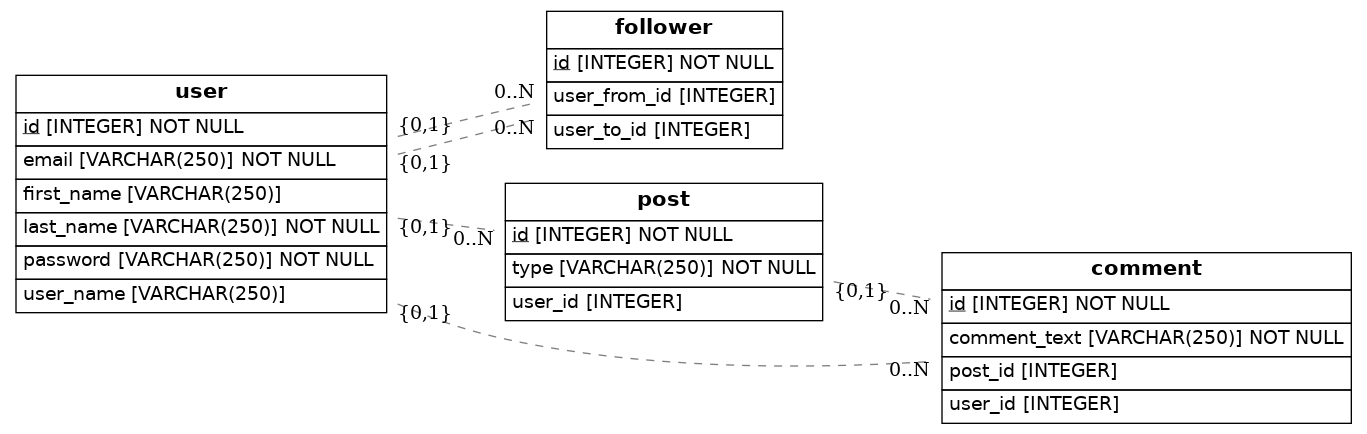
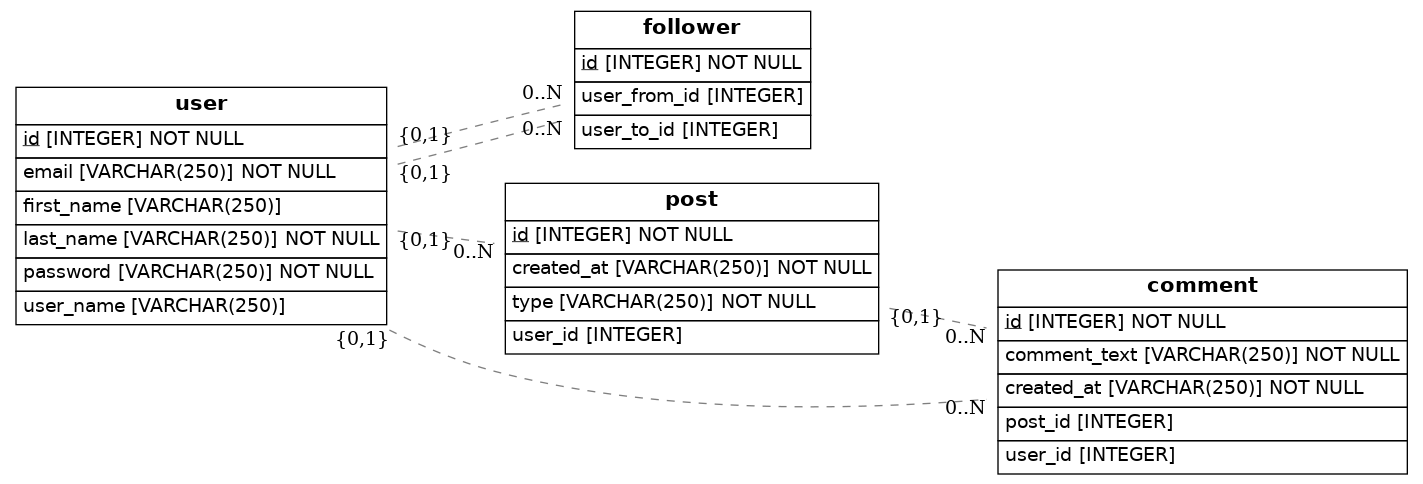
Correcion hecha

diff --git a/src/models.py b/src/models.py
@@ -29,6 +29,7 @@ class Post(Base):
     user_id = Column(Integer, ForeignKey('user.id'))  
     user = relationship(User)
     type = Column(String(250), nullable=False) 
+    created_at = Column(String(250), nullable=False) 
 
 class Comment(Base):  
     __tablename__ = 'comment'
@@ -38,6 +39,8 @@ class Comment(Base):
     post_id = Column(Integer, ForeignKey('post.id'))
     user = relationship(User)
     post = relationship(Post)
+    created_at = Column(String(250), nullable=False) 
+
 
 def to_dict(self):
     return {}
